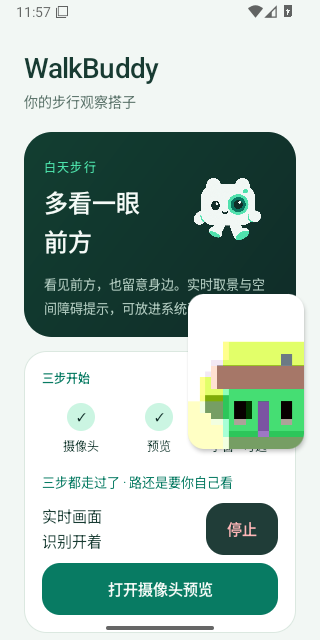
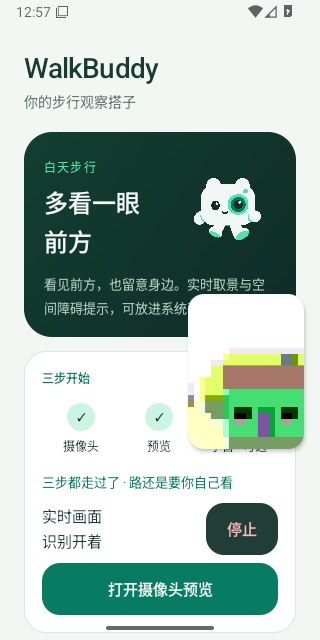
Ignore obsolete screen-off notifications after explicit wake recovery

diff --git a/app/src/androidTest/java/com/cyanrbt/walkbuddy/PipProbe.java b/app/src/androidTest/java/com/cyanrbt/walkbuddy/PipProbe.java
@@ -4,6 +4,7 @@ import android.app.Activity;
 import android.app.Instrumentation;
 import android.app.RemoteAction;
 import android.content.Intent;
+import android.content.BroadcastReceiver;
 import android.graphics.Bitmap;
 import android.graphics.SurfaceTexture;
 import android.os.Build;
@@ -182,6 +183,17 @@ final class PipProbe {
             });
             report.append("PASS screen-off releases resources; wake/return does not restart camera\n");
             checkpoint(runner,"wake_restart_live");
+            read(runner,()->{
+                if(!host.getSystemService(PowerManager.class).isInteractive() || host.getSystemService(KeyguardManager.class).isKeyguardLocked())
+                    throw new AssertionError("Replay requires an awake, unlocked device");
+                long generation=state(host).generation;Object camera=field(host,"camera");
+                ((BroadcastReceiver)field(host,"events")).onReceive(host,new Intent(Intent.ACTION_SCREEN_OFF));
+                if(!live(host) || state(host).generation!=generation || field(host,"camera")!=camera)
+                    throw new AssertionError("Late screen-off delivery stopped the explicitly restarted session");
+                return true;
+            });
+            report.append("PASS replayed late screen-off delivery while awake/unlocked leaves the new session LIVE\n");
+            checkpoint(runner,"late_screen_off_ignored");
 
             read(runner,()->host.findViewById(R.id.enter_pip).performClick());
             await(runner,host::isInPictureInPictureMode,"second PiP entry");

diff --git a/app/src/main/java/com/cyanrbt/walkbuddy/PreviewActivity.java b/app/src/main/java/com/cyanrbt/walkbuddy/PreviewActivity.java
@@ -102,7 +102,9 @@ public final class PreviewActivity extends Activity {
     private boolean analysisReady,analysisHasResult;
     private final BroadcastReceiver events = new BroadcastReceiver() {
         public void onReceive(Context c, Intent intent) {
-            if (Intent.ACTION_SCREEN_OFF.equals(intent.getAction())) fail(RecoveryGuide.Reason.LOCKED,"锁屏：摄像头已停止，请主动重新开启");
+            if (Intent.ACTION_SCREEN_OFF.equals(intent.getAction())
+                && (!getSystemService(PowerManager.class).isInteractive() || getSystemService(KeyguardManager.class).isKeyguardLocked()))
+                fail(RecoveryGuide.Reason.LOCKED,"锁屏：摄像头已停止，请主动重新开启");
         }
     };
     private final Runnable watchdog = new Runnable() { public void run() {

diff --git a/docs/验证结果.md b/docs/验证结果.md
@@ -37,6 +37,8 @@
 - [批量 RGB 与几何复用检查](https://github.com/cyanrbt/walkbuddy/actions/runs/40877112312)的 Android 35/36 均成功：每套两轮 PIP_PROBE_PASS、两次真实绘制截止恢复，以及输入/模型、布局、轮廓和权限恢复检查全过，模型保留断言已执行。
 - [之前一次首包失败](https://github.com/cyanrbt/walkbuddy/actions/runs/40876140236)发生在开启检测之前。时间日志显示采集心跳仍为 0，元数据年龄约 1.449 秒，是启动阶段的旧包。现在仅在 STARTING 丢弃旧包，不记录采集心跳、不晋升 LIVE、不记录预览成功；保持遮挡并等待新鲜采集/显示，原始 5000ms 启动截止不延长。LIVE 中旧戳仍立即失败。两项新增回归验证只有新鲜结果能完成启动、反复丢包不移动五秒截止、过期后的旧 generation 不能复活。
 
+- [启动旧包处理后的检查](https://github.com/cyanrbt/walkbuddy/actions/runs/40878318461)的 Android 35 两轮通过，Android 36 在新会话已 LIVE 后又被锁屏通知停止。该原因仅从息屏接收器进入，与迟到通知相符，但没有原始广播发送时刻。[Android 广播说明](https://developer.android.com/develop/background-work/background-tasks/broadcasts)明确交付时机不保证，缓存进程可能延后接收。现在收到通知时核对当前屏幕与锁屏状态，只在仍息屏或锁定时停止；离屏 onStop 仍无条件停止。新增亮屏解锁后重放内部接收器回归，真实息屏停止流程仍保留。
+
 以上是 x86_64 模拟器结果，不证明 ARM64 真机稳定性、识别准确率、TalkBack、AR 深度或实际耗电。版本为 0.4.9 / 21，包名/固定签名不变；更多设备场景见[实机测试](实机测试.md)。
 
 ---

diff --git a/docs/实机测试.md b/docs/实机测试.md
@@ -18,6 +18,8 @@ CI 每套模拟器执行两轮完整 PiP 探针，分别保存 `pip.txt` 与 `pi
 
 每轮在真正 Camera2 LIVE 后包装实际 TextureView 监听器，在它的绘制更新回调中将采集心跳设为过期，再调用原业务监听。检查故障遮挡与相机/待处理任务释放、旧 View 在回调返回后从父节点移除、Activity 没有崩溃且可手动重开。这是仪器测试注入的截止场景，不是声称设备自然发生了相机故障。
 
+唤醒并手动重开后，还直接调用内部接收器重放一次息屏通知，确认亮屏且解锁的新会话不被停止；这不是从系统发送受保护广播。真正的 KEYCODE_SLEEP 流程继续检查相机和待处理任务关闭。
+
 | 实机补充场景 | 预期 | 结果 |
 |---|---|---|
 | 连续基础识别 10/30/60 分钟 | 记录堆内存、GC、真实端到端延迟和发热，不以模拟器分配数据替代 | 待测 |
